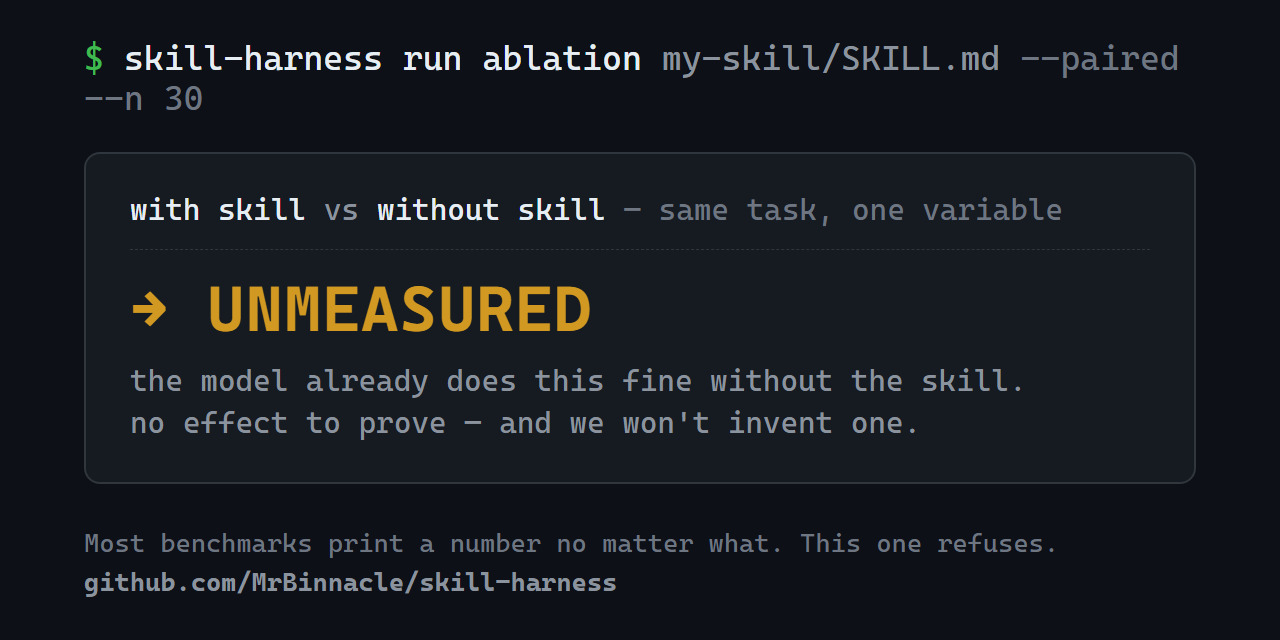
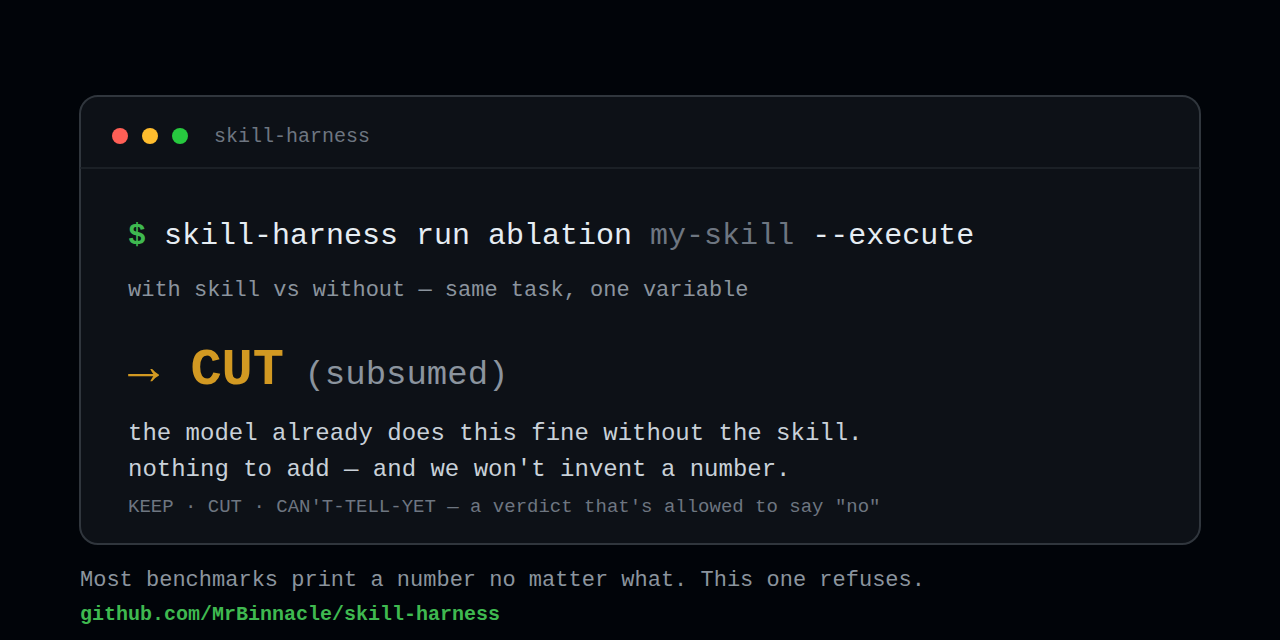
Pre-launch readiness: align launch-surface claims with the registered record, make skill audit truly offline, mirror CI in pre-commit (#21)
- fix(oracles): lazy tiktoken load — skill audit now runs fully offline on a cold cache
- docs: fact corrections aligning README/CHANGELOG/docs with the registered record
  (paired k=8 shakedown vs "never fired"; 26/26 Null epochs across 6 tasks vs "~26
  verdicts"; real "2 pass" audit output; verdict trio KEEP / CUT / CAN'T-TELL-YET;
  dead CLAUDE.md refs -> docs/INVARIANTS.md; SECURITY/CONTRIBUTING/examples fixes)
- chore(dev): pre-commit mypy/ruff hooks aligned to CI pins (mypy hook was failing
  with 10 errors on a fresh clone); pre-commit added to dev extras; PyPI URLs
- fix(assets): social preview re-rendered with a real CLI invocation and the
  shipped verdict vocabulary
- merge resolution also restores the '## [0.2.0] — 2026-07-21' CHANGELOG heading
  dropped by #20

Claude-Session: https://claude.ai/code/session_016x8GsoPiYjKfchRqDSxkmE

diff --git a/src/skill_harness/oracles/tier1/verbosity.py b/src/skill_harness/oracles/tier1/verbosity.py
@@ -4,7 +4,11 @@ Verbosity = number of tokens in ``text`` using the cl100k_base encoding.
 
 Design decisions (A35 verbatim):
 - Uses tiktoken ``cl100k_base`` encoding (Claude/GPT-4 base tokenizer).
-- Fully offline — tiktoken uses a local BPE vocabulary file.
+- Offline after first use — tiktoken caches the BPE vocabulary locally, but
+  fetches it over the network on a cold cache (pre-seed ``TIKTOKEN_CACHE_DIR``
+  for air-gapped machines). The encoding loads lazily on first tokenization so
+  merely importing this module (e.g. via ``skill audit``) never touches the
+  network.
 - Version-pinned in pyproject.toml: ``tiktoken>=0.7,<1.0``.
 - DO NOT replace with ``client.messages.count_tokens()`` — that is a
   network call and violates the Tier-1 offline invariant (A33).
@@ -27,8 +31,13 @@ import tiktoken
 
 ENCODING_NAME: Final[str] = "cl100k_base"
 
-# Loaded once at module import — tiktoken caches the BPE data on first load.
-_ENC: Final[tiktoken.Encoding] = tiktoken.get_encoding(ENCODING_NAME)
+# Loaded lazily on first tokenization, then cached for the process lifetime.
+# NOT at module import: tiktoken fetches the BPE file over the network on a
+# cold cache, and this module is imported by get_default_tier1_scorers(),
+# which the fully-offline `skill audit` path calls just to enumerate axis
+# names — an eager load here made `skill audit` crash on air-gapped machines
+# without ever needing to tokenize anything.
+_enc: tiktoken.Encoding | None = None
 
 
 def get_encoding() -> tiktoken.Encoding:
@@ -44,9 +53,12 @@ def get_encoding() -> tiktoken.Encoding:
     once at module load for ``FILLER_UNIT_TOKENS`` and once per instance in
     ``__init__``) — a name change here would silently NOT propagate there.
     Returns the same cached ``Encoding`` object every call (tiktoken's own
-    internal cache plus this module's ``_ENC`` constant).
+    internal cache plus this module's ``_enc`` memo).
     """
-    return _ENC
+    global _enc
+    if _enc is None:
+        _enc = tiktoken.get_encoding(ENCODING_NAME)
+    return _enc
 
 
 # ---------------------------------------------------------------------------
@@ -70,4 +82,4 @@ def count_tokens(text: str) -> int:
     """
     if not text:
         return 0
-    return len(_ENC.encode(text))
+    return len(get_encoding().encode(text))

diff --git a/src/skill_harness/subject/screen_backfill.py b/src/skill_harness/subject/screen_backfill.py
@@ -1,7 +1,8 @@
 """Batch-1 Stage-0 screen backfill manifest + apply logic.
 
-The 26 Stage-0 screen verdicts in the program to date exist only as prose (the
-v0.2 pre-registration + per-skill EVIDENCE.md). This backfill makes the subset
+The program's Stage-0 screen verdicts to date (a record resting on 26/26 Null
+epochs across 6 tasks, per the registered pre-registration) exist only as
+prose (the v0.2 pre-registration + per-skill EVIDENCE.md). This backfill makes the subset
 that HAS raw Inspect ``.eval`` logs on disk store-auditable: it ingests those
 logs into the screen store (migration 0501) so p0 — and therefore the keep/cut
 verdict — is DERIVED from append-only evidence rather than hand-transcribed.

diff --git a/tests/extractor/test_live.py b/tests/extractor/test_live.py
@@ -1,6 +1,7 @@
 """Live integration test: calls the real Anthropic API.
 
-Marked ``@pytest.mark.live`` — excluded from the default test run.
+Marked ``@pytest.mark.live`` — excluded from CI's run (``-m "not live"``,
+which local runs should mirror; a bare ``pytest`` does NOT deselect it).
 Run explicitly with::
 
     pytest -m live tests/extractor/test_live.py

diff --git a/CHANGELOG.md b/CHANGELOG.md
@@ -18,6 +18,34 @@ and this project adheres to [Semantic Versioning](https://semver.org/spec/v2.0.0
   existing file) is refused outright — contents only, never a path.
 
 ### Fixed
+- **`skill audit` now works fully offline on a cold cache.** The Tier-1 verbosity
+  module loaded tiktoken's `cl100k_base` encoding at import time, and `skill audit`
+  imports that module just to enumerate axis names — so the "fully offline, no cost"
+  command crashed on air-gapped machines with a network fetch to
+  `openaipublic.blob.core.windows.net`. The encoding now loads lazily on first
+  tokenization; audit never touches the network, and only paid measurement paths
+  fetch (pre-seed `TIKTOKEN_CACHE_DIR` for air-gapped measurement runs).
+- **Launch-surface fact corrections from a pre-launch readiness review.** README/
+  CHANGELOG/docstring claims brought back in line with the repo's own registered
+  record: the paired Full-vs-Null path is described as shaken down via the
+  pre-registered k=8 NO-GO apparatus run (≈$6.17), not "never fired /
+  cost-free-validated"; "~26 screen verdicts" corrected to the registered
+  denominator (26/26 Null epochs across 6 screened tasks) in README, CHANGELOG
+  0.2.0 entry, and `screen_backfill.py`; the audit sample's summary line corrected
+  from "3 pass" to the tool's real "2 pass" output; pyproject's description now
+  names the shipped verdict trio (KEEP / CUT / CAN'T-TELL-YET); the stale
+  "extractor has no OpenRouter fallback" claim in the ai-slop-sentinel case study
+  updated to record the 2026-06-09 fix; the FAQ's "one screen" 14/14 phrasing
+  corrected to "two screens and a paired run" with the data-skepticism aside marked
+  as an unpublished observation; four scorers → five in `why-unmeasured.md`;
+  `docs/INVARIANTS.md` replaces dead `CLAUDE.md` references in the PR template and
+  issue chooser; unpublished internal paths in case studies and concepts docs
+  marked as private provenance markers per `docs/PLAN.md`'s convention; SECURITY.md
+  Dependabot/pre-commit claim and dead profile-email fallback channel corrected;
+  `inspect-swe` maintainer-org provenance corrected in the supply-chain audit;
+  CONTRIBUTING's Python target (3.11 → 3.12), stale "8 passed" count, and verify
+  commands (now `PYTHONHASHSEED=0 pytest -q -m "not live"`, mirroring CI) fixed;
+  `live` marker text no longer claims deselect-by-default.
 - **Non-deterministic ordering in `calibration_events` audit queries.**
   `list_calibration_events_for_judge_axis` (and its sibling
   `select_calibration_events_by_state`) ordered by `validated_at DESC` with no
@@ -49,6 +77,19 @@ and this project adheres to [Semantic Versioning](https://semver.org/spec/v2.0.0
   structural-bans job) blocks reintroducing a timestamp-final `ORDER BY`
   in `src/`.
 
+### Changed
+- **Local pre-commit hooks now mirror CI verdicts.** `mirrors-mypy` bumped
+  v1.10.0 → v2.3.0 (the requirements-ci.txt pin), its default
+  `--ignore-missing-imports` overridden (it flipped CI-required `type: ignore`
+  comments to "unused"), and hook deps extended with the runtime stack
+  (openai/scipy/statsmodels/tiktoken/pytest-socket); ruff hook bumped to the CI
+  pin v0.15.22. `pre-commit run mypy --all-files` previously failed with 10
+  errors on a fresh clone; now green.
+- Packaging metadata: `pre-commit` added to the `dev` extras (CONTRIBUTING's
+  setup uses it), and `Changelog`/`Documentation` project URLs added for PyPI.
+
+## [0.2.0] — 2026-07-21
+
 ### Added
 - **Operator-facing keep/cut verdict layer** (`skill_harness.aggregation.verdict`):
   maps a measured outcome to the decision an operator actually has — KEEP / CUT /
@@ -76,9 +117,9 @@ and this project adheres to [Semantic Versioning](https://semver.org/spec/v2.0.0
   shows the two live end-to-end receipts (`append-only-evidence-design` and a hardened
   `git-pull-rebase-trap`, both **CUT (subsumed)** at a bare-arm pass rate of 1.00), and
   states the honest maturity plainly: **zero measured KEEPs in the program to date**, and
-  store-backed coverage is partial (a handful of the ~26 screen verdicts, the rest
-  prose-backed pending backfill). Replaces the earlier "v0.1 measures style-level effects"
-  framing.
+  store-backed coverage is partial (a handful of the program's screen verdicts — a record
+  resting on 26/26 Null epochs across 6 screened tasks — the rest prose-backed pending
+  backfill). Replaces the earlier "v0.1 measures style-level effects" framing.
 - **Paired KEEP path annotated as coded-but-never-fired, with a named firing trigger.**
   `aggregation.verdict` (Path B docstring) now records that the paired Full-vs-Null mapping
   launches only on the first task whose Null screen returns a pass rate below 1, and that

diff --git a/README.md b/README.md
@@ -40,11 +40,15 @@ Most benchmarks hand you a number no matter what. This tool refuses. That refusa
 > the tool doing its job, not a failure.
 >
 > **Honest maturity.** **Zero measured KEEPs exist in the program to date.** The paired
-> Full-vs-Null path that would produce one is coded and cost-free-validated but has *never fired* —
-> it launches only on the first task whose no-skill screen returns a pass rate below 1, and so far
-> every screened skill ceilings at 1. Store-backed coverage is partial: only a handful of the ~26
-> screen verdicts derive from an append-only evidence store (the two live runs plus a curated
-> batch-1 backfill); the rest are prose-backed pending backfill. A tool that has never said KEEP,
+> Full-vs-Null path that would produce one is coded and shaken down end-to-end — one paired k=8
+> run (2026-07-09, ≈$6.17) executed as a pre-registered apparatus shakedown and returned a
+> NO-GO datum, not a benefit measurement ([the double-ceiling case
+> study](docs/case-studies/double-ceiling-structurally-unmeasured.md)). A sized benefit run
+> launches only on the first task whose no-skill screen returns a pass rate below 1, and so far
+> every screened skill ceilings at 1. Store-backed coverage is partial: only a handful of the
+> program's screen verdicts (a record resting on 26/26 Null epochs across 6 screened tasks)
+> derive from an append-only evidence store (the two live runs plus a curated batch-1
+> backfill); the rest are prose-backed pending backfill. A tool that has never said KEEP,
 > and says so plainly, is more trustworthy than one that manufactures a KEEP to look useful. The
 > v0.1→v0.2 re-aim that got us here is pre-registered and published, not papered over:
 > [`docs/findings/v0.2-reaim-gate.md`](docs/findings/v0.2-reaim-gate.md).
@@ -84,7 +88,7 @@ skill-harness skill audit path/to/your/SKILL.md
 Two commands to your first verdict. `skill audit` is fully offline: a structural check against
 [Anthropic's authoring spec](https://platform.claude.com/docs/en/agents-and-tools/agent-skills/best-practices),
 plus a preview of what a paid run could measure about this skill today and which claims would
-come back `UNMEASURED`. Real output:
+come back `UNMEASURED`. Output (abridged):
 
 ```text
 OFFLINE AUDIT — no API calls, no cost
@@ -104,13 +108,15 @@ Evaluability preflight — what a paid run could measure today:
   Behavior-shaped claims (correctness, tool use, outcomes): no mechanical
   instrument in v0.1 → verdict would be UNMEASURED, not an estimate.
 
-Summary: 3 pass · 0 warn — UNMEASURED is a verdict, not a failure.
+Summary: 2 pass · 0 warn — UNMEASURED is a verdict, not a failure.
 ```
 
 Note the third line of that report: when the tool can't read something, it says so and skips
 the check — it does not pass what it did not measure. That's the whole design, applied at every
 layer. `--strict` exits 1 on warnings for CI use. On Windows terminals, set `PYTHONUTF8=1`
-first.
+first. (`skill audit` itself never touches the network; the paid measurement paths fetch
+tiktoken's `cl100k_base` encoding (~1.7 MB) on first use — pre-seed `TIKTOKEN_CACHE_DIR` on
+air-gapped machines.)
 
 ## Measuring for real (API key required)
 
@@ -121,8 +127,8 @@ skill-harness run evaluate-skill <skill_id>            # aggregate verdicts
 ```
 
 Both `skill init` and `run ablation` accept **either** `ANTHROPIC_API_KEY` (direct) or
-`OPENROUTER_API_KEY` (auto-routed). Every `run` command is dry-run by default; `--execute` is
-required to spend money, and per-run/daily budget caps are enforced. Reproduction script and
+`OPENROUTER_API_KEY` (auto-routed). Every command that can spend money is dry-run by default;
+`--execute` is required to spend, and per-run/daily budget caps are enforced. Reproduction script and
 details: [`examples/`](examples/).
 
 ## What it measures today — and what it refuses to
@@ -142,8 +148,9 @@ contrast, run against an agentic multi-turn subject with deterministic outcome o
 admissibility field — because published agentic-benchmark experience puts harness-induced
 variance at 10–20 points on identical model weights, larger than most skill effects. The
 claim-level style path above still exists as the offline/audit surface. What has *not* yet
-fired is the paired Full-vs-Null run — see the status note at the top: it launches only when a
-screen returns a sub-1 pass rate, and none has yet.
+fired is a paired Full-vs-Null *benefit* run — the one paired execution to date was a
+pre-registered apparatus shakedown that returned NO-GO (see the status note at the top): a
+sized benefit run launches only when a screen returns a sub-1 pass rate, and none has yet.
 
 ## How it compares
 

diff --git a/SECURITY.md b/SECURITY.md
@@ -6,7 +6,7 @@
 
 Report security issues privately via GitHub's [Security Advisory](https://github.com/MrBinnacle/skill-harness/security/advisories/new) feature. We aim to acknowledge reports within 72 hours and provide a remediation timeline within 7 days.
 
-For sensitive disclosures that should not transit GitHub, contact the maintainer through the email listed on their GitHub profile.
+For sensitive disclosures that should not transit GitHub in full, open a private advisory with minimal detail and request an alternate channel there — the maintainer will provide one in the advisory thread.
 
 ## Supported versions
 
@@ -24,7 +24,7 @@ This project takes dependency provenance seriously. The discipline:
 
 - **All production dependencies pinned above their last CVE-patched version.** The current `anthropic` pin (`>=0.87`) reflects the patches for GHSA-q5f5-3gjm-7mfm and GHSA-w828-4qhx-vxx3 (Memory Tool, 2026-03-31). See [`docs/supply-chain/`](docs/supply-chain/) for the per-dependency audit records that ARE tracked (e.g. `inspect-audit-2026-07-09.md`, `openai-audit-2026-06-08.md`).
 - **Supply-chain audit re-run quarterly** and at every major version bump of `anthropic`, `pydantic`, or `pytest`. The `anthropic`-pin audit (see `CHANGELOG.md`'s `0.1.0a0` Security entry) was run with the `supply-chain-risk-auditor` tool at scaffold time (2026-06-03); its output directory (`.supply-chain-risk-auditor/`) is local-only and gitignored — not a tracked artifact, so the full results are not published in this repo.
-- **Dependabot enabled** for `pip`, `github-actions`, and `pre-commit` ecosystems. See `.github/dependabot.yml`.
+- **Dependabot enabled** for the `pip` and `github-actions` ecosystems (see `.github/dependabot.yml`); pre-commit hook versions are bumped monthly by pre-commit.ci autoupdate (`ci:` block in `.pre-commit-config.yaml`).
 - **CodeQL** runs via GitHub's default code-scanning setup (Python + GitHub Actions queries, weekly) — not a tracked workflow file. An advanced-configuration `codeql.yml` was removed (`a917765`) because its SARIF uploads are rejected while default setup is enabled on this repo; one scanner, the working one. Scan status is visible on the repo's Security tab.
 - **No deps with active high/critical CVEs.** Any introduction of such a dep requires PR-level justification + mitigation.
 - **CI reproducibility (S4): `requirements-ci.txt`.** `pyproject.toml`'s runtime deps stay open-ended (`>=`) by design — this is a library, and downstream installers need to resolve compatible versions in their own environment, not inherit our exact pins. That openness has a supply-chain cost on its own: an audit like `openai-audit-2026-06-08.md` anchors a known-good floor version, but an unbounded `>=` lets the resolver drift arbitrarily far past it, including into an unaudited next major — which is why `openai` is now capped `<3` (audited-version-drift rule: a dependency's version range must never extend past the highest major actually reviewed in its audit doc; raising the cap requires a new audit entry, not just a version bump). CI's OWN installs are additionally pinned via `requirements-ci.txt` + `pip install -c requirements-ci.txt`, so a fresh CI run resolves the same transitive versions every time instead of "latest at run time" — this file constrains CI only and does not change what a downstream `pip install skill-harness` resolves.

diff --git a/docs/case-studies/ai-slop-sentinel-under-ablation.md b/docs/case-studies/ai-slop-sentinel-under-ablation.md
@@ -256,11 +256,12 @@ is on `main`. The two engineering gaps surfaced by HALT 2 (`--subject-
 model` CLI flag, ANTHROPIC fallback path for `run ablation`) landed in
 commits `a9bdacc` and `f6201a8` on 2026-06-09 — the audit trail of the
 fixes is itself part of the discipline-catching-itself arc this case
-study describes. One adjacent gap remains: the extractor on `skill init`
-is still Anthropic-direct, with no OpenRouter fallback. Operators on
-Claude Code subscription auth without a direct Anthropic key cannot run
-`skill init` end-to-end against the current `main`. That gap is on the
-v0.2 backlog as the symmetric follow-on to the W2 work.
+study describes. One adjacent gap remained at the time of writing: the
+extractor on `skill init` was still Anthropic-direct, with no OpenRouter
+fallback, so operators on Claude Code subscription auth without a direct
+Anthropic key could not run `skill init` end-to-end. That gap closed on
+`main` on 2026-06-09 (`b5b9fe6`) as the symmetric follow-on to the W2
+work — `skill init` now accepts either key.
 
 ## What this case study does not claim
 
@@ -315,13 +316,17 @@ that path is the artifact.
 
 *Reproducible artifact: Skill Harness on `main` at HEAD `f3a1fd1`. Tag
 `v0.1.0` (commit `fd782b1`). Audit-trail commits cited inline above; HALT
-findings at `docs/dispatch/t3-findings.md`; pre-registrations at
-`docs/dispatch/t3-pre-registration.md`; SOP amendment in
-`.claude/skills/dev-team-council/SKILL.md` at `62391eb`.
-PRD specification at `docs/PRD.md` v1.1. Council-adopted invariants at
-the internal council findings log A1-A62 (not published). The dogfooding result that triggered
-this story is at `docs/dogfooding-ai-slop-sentinel-2026-06-07.md`
-(baseline-state, pre-registry-expansion).*
+findings at `docs/dispatch/t3-findings.md` and pre-registrations at
+`docs/dispatch/t3-pre-registration.md` (internal process records,
+maintained privately and not published in this repository — see the
+provenance note in `docs/PLAN.md`); SOP amendment in
+`.claude/skills/dev-team-council/SKILL.md` at `62391eb` (local, not
+published). PRD specification at `docs/PRD.md` v1.1. Council-adopted
+invariants at the internal council findings log A1-A62 (not published).
+The dogfooding result that triggered this story is at
+`docs/dogfooding-ai-slop-sentinel-2026-06-07.md` (baseline-state,
+pre-registry-expansion; not published). Citations are retained as
+provenance markers.*
 
 *The discipline this case study describes is falsifiable by construction.
 The audit trail is the test.*

diff --git a/docs/FAQ.md b/docs/FAQ.md
@@ -23,7 +23,7 @@ Grading the skill file — linting it, having an LLM judge it — answers *"is t
 
 ## Making the task harder should create a KEEP eventually — why doesn't it?
 
-It was tried. In one screen, a frontier agent passed 14/14 no-skill runs across two deliberately hardened tasks — making the traps more naturalistic did not open any headroom for a skill to fill. The pattern holds because a reminder-style skill only helps where the model's baseline behavior actually falls short; when the baseline is already competent, there's nothing to remind. Measurable benefit showed up only for a data-skepticism check the model genuinely sometimes skips. See [case-studies/double-ceiling-structurally-unmeasured.md](case-studies/double-ceiling-structurally-unmeasured.md).
+It was tried. Across two screens and a paired run, a frontier agent passed 14/14 no-skill epochs on two deliberately hardened tasks — making the traps more naturalistic did not open any headroom for a skill to fill. The pattern holds because a reminder-style skill only helps where the model's baseline behavior actually falls short; when the baseline is already competent, there's nothing to remind. The one hint of headroom was a data-skepticism check the model genuinely sometimes skips — an unpublished dogfooding observation, not a tracked verdict. See [case-studies/double-ceiling-structurally-unmeasured.md](case-studies/double-ceiling-structurally-unmeasured.md).
 
 ## Does it only work with Claude?
 

diff --git a/src/skill_harness/storage/migrations_sql/README.md b/src/skill_harness/storage/migrations_sql/README.md
@@ -1,7 +1,8 @@
-# migrations/
+# migrations_sql/
 
-This directory contains SQL migration files for the Skill Harness storage
-layer.  There are two sub-directories:
+This directory (`src/skill_harness/storage/migrations_sql/`, shipped as package
+data) contains SQL migration files for the Skill Harness storage layer.  There
+are two sub-directories:
 
 - **`evidence/`** — append-only evidence DB schema (triggers, indexes, VIEWs).
 - **`runtime/`** — mutable runtime DB schema (in-flight state, cost ledger,
@@ -19,6 +20,7 @@ development without collision.  Each track owns an exclusive range:
 | C     | 0200–0299  | Oracle / calibration           |
 | D     | 0300–0399  | Ablation runner                |
 | E     | 0400–0499  | Aggregation / status reporting |
+| v0.2  | 0500–0599  | Subject layer (harness pin, screen store) — per the A30 ledger note in `0500` |
 
 **Why this matters:**
 
@@ -50,6 +52,6 @@ NNNN_<snake_case_description>.sql
 
 ## CODEOWNERS gate
 
-Any pull request that modifies files under `migrations/` requires sign-off
+Any pull request that modifies files under `migrations_sql/` requires sign-off
 from the SCHEMA + SECURITY review seats per A30 (`.github/CODEOWNERS`).  This
 enforces the pre-merge council fire requirement from the project plan.

diff --git a/CONTRIBUTING.md b/CONTRIBUTING.md
@@ -25,13 +25,15 @@ python -m venv .venv
 pre-commit install
 ```
 
-Verify everything works:
+Verify everything works (`PYTHONHASHSEED=0` is required — the Tier-1
+bit-equality tests refuse to collect without it; on Windows use
+`set PYTHONHASHSEED=0` first):
 
 ```bash
-pytest -q                              # 8 passed
-mypy --strict src tests                # 0 errors
-ruff check src tests                   # 0 issues
-ruff format --check src tests          # 0 reformats needed
+PYTHONHASHSEED=0 pytest -q -m "not live"   # all green (mirrors CI)
+mypy --strict src tests                    # 0 errors
+ruff check src tests                       # 0 issues
+ruff format --check src tests              # 0 reformats needed
 ```
 
 ## The discipline
@@ -83,7 +85,7 @@ For architectural changes, open a discussion before an issue.
 `ruff` and `mypy --strict` are the source of truth. Their configs live in `pyproject.toml`. Don't introduce per-file overrides without justification in the PR.
 
 - Line length: 100
-- Target: Python 3.11
+- Target: Python 3.12
 - Imports: sorted by `ruff` (`I` rules)
 - Type annotations: required on every function and method body (`mypy --strict`)
 - Docstrings: brief; the WHY (non-obvious invariants), not the WHAT (which the code already shows)

diff --git a/docs/concepts/why-unmeasured.md b/docs/concepts/why-unmeasured.md
@@ -24,9 +24,10 @@ aggregate-layer representation of a clause that was never reached by the runner 
 commonly because the runner's oracle gate fired before any subject-model calls were
 made. See `tier2_uncalibrated` for the runner-layer cause.
 
-Example: a skill with 17 domain-specific axes (e.g., `citation_presence_per_flag`)
-runs against a harness that has only four registered Tier-1 scorers (`verbosity`,
-`hedge_index`, `structure_score`, `compliance_proxy`). None of the axes match. The
+Example: a skill with 17 domain-specific axes (e.g., `legal_disclaimer_presence`)
+runs against a harness that has only five registered Tier-1 scorers (`verbosity`,
+`hedge_index`, `structure_score`, `compliance_proxy`, `citation_presence_per_flag`).
+None of the axes match. The
 runner fires the BLOCKER-1 gate for all 17 clauses, writes zero verdict rows, and the
 aggregator returns `no_data` for every clause.
 

diff --git a/docs/supply-chain/inspect-audit-2026-07-09.md b/docs/supply-chain/inspect-audit-2026-07-09.md
@@ -17,8 +17,9 @@ Docker API and bridges model calls.
 - `inspect-ai` — UK AI Security Institute (`UKGovernmentBEIS/inspect_ai`):
   institutional maintainer, ~2.3k stars, 6k+ commits, 200+ releases, active weekly.
   Reviewed version: 0.3.245.
-- `inspect-swe` — same maintainer org (`meridianlabs-ai/inspect_swe` per PyPI
-  metadata; the Inspect ecosystem's agent-adapter package), releasing in lockstep
+- `inspect-swe` — a distinct maintainer org from inspect-ai's
+  (`meridianlabs-ai/inspect_swe` per PyPI metadata; the Inspect ecosystem's
+  agent-adapter package), releasing in lockstep
   with inspect-ai. Reviewed version: 0.2.65. Pace is fast (60+ releases in months) —
   pin exact versions in the HarnessPin per trial; a version bump between arms is
   inadmissible anyway.
